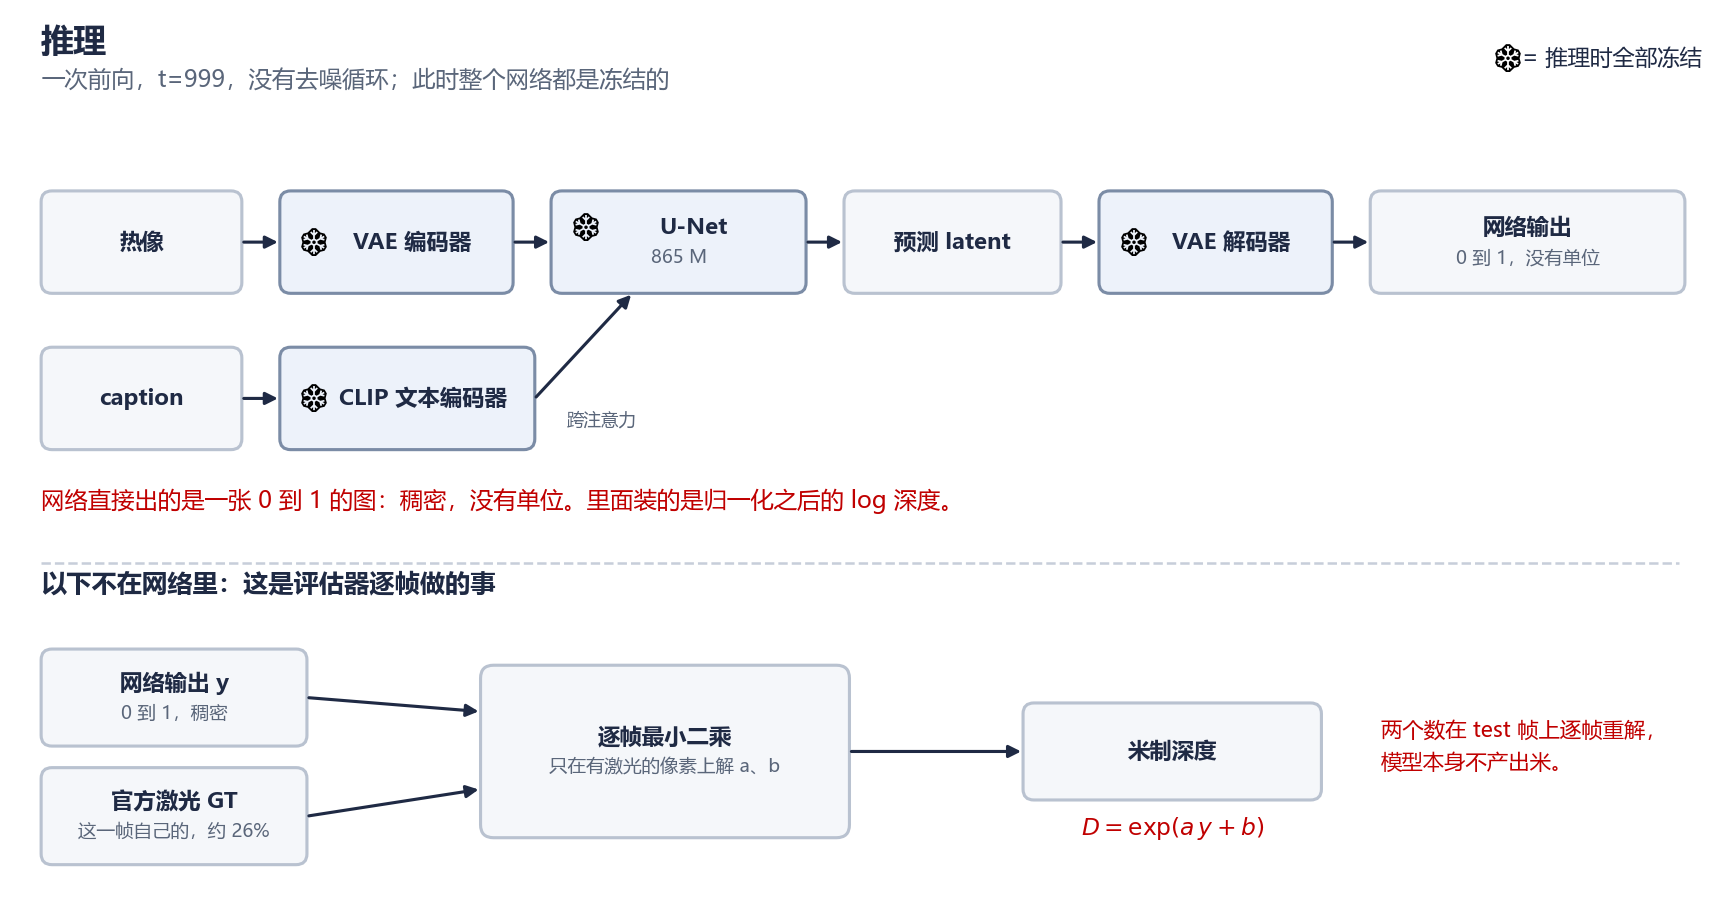
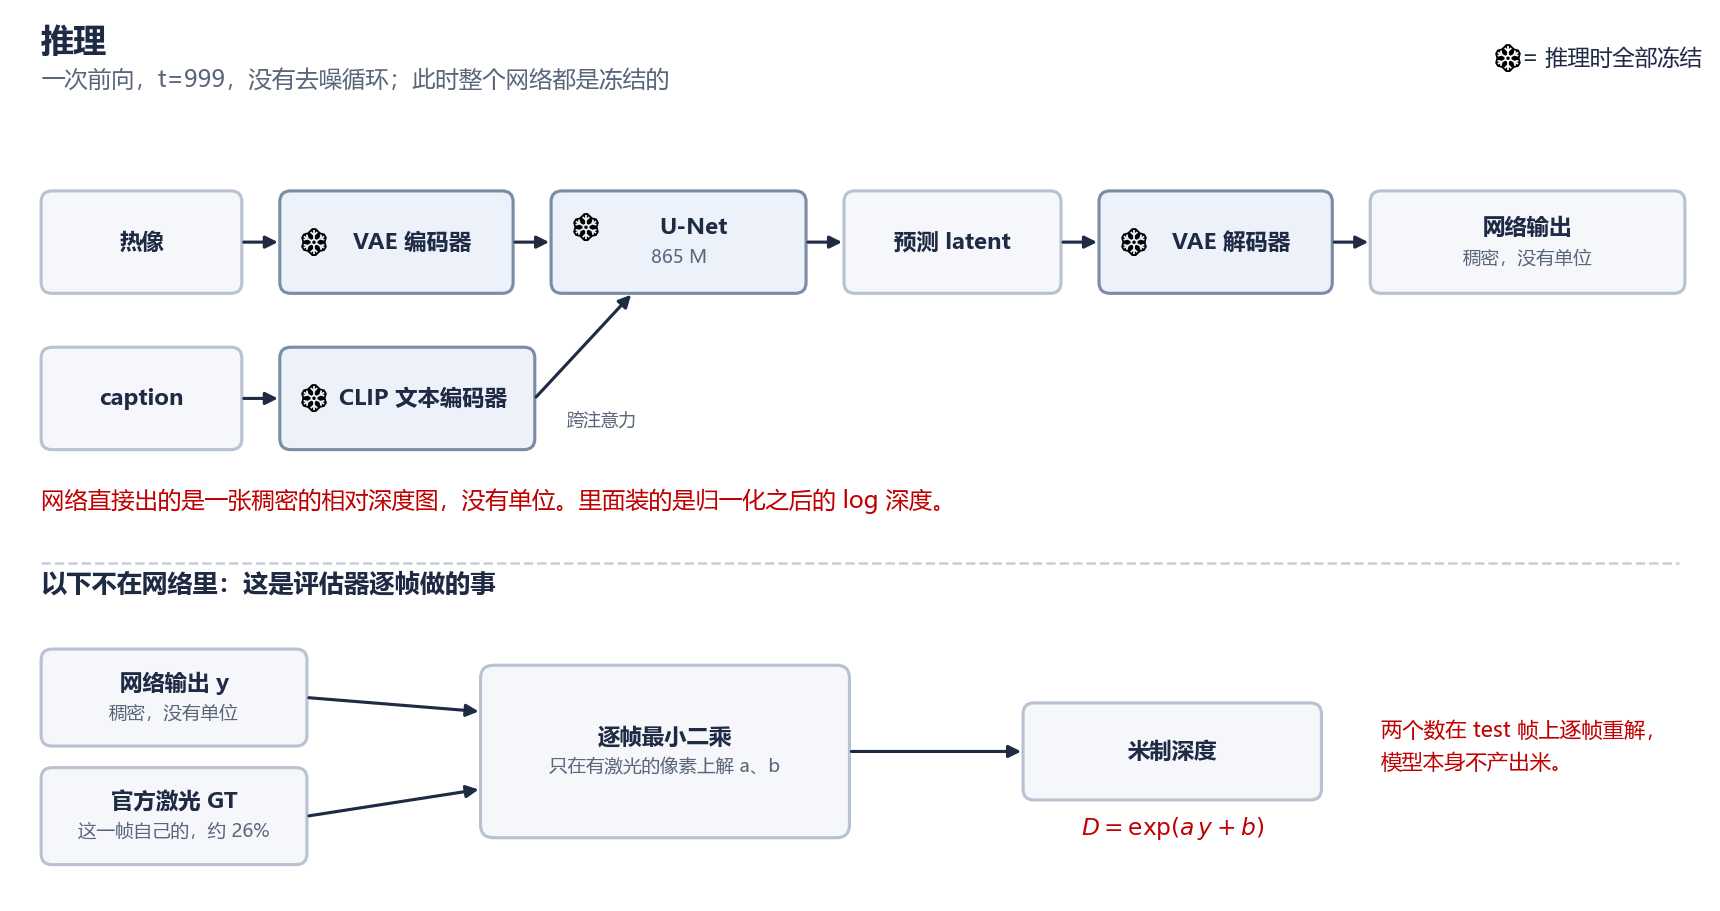
Take the range off the inference figure, as asked
Three places said "0 到 1". Asked to drop them, the previous pass only
dropped the word 标称 in front of one of them and left the interval itself
in all three.

Changed region(s): [[0.1541, 0.5225, 0.5547, 0.584], [0.832, 0.2766, 0.9244, 0.3074], [0.0616, 0.7684, 0.1541, 0.7991]]

diff --git a/docs/figures/build_architecture.py b/docs/figures/build_architecture.py
@@ -257,7 +257,7 @@ def inference():
     block(ax, 4.95, row, 2.35, h, "U-Net", "865 M", state="frozen")
     block(ax, 7.65, row, 2.00, h, "预测 latent", state="data")
     block(ax, 10.00, row, 2.15, h, "VAE 解码器", state="frozen")
-    block(ax, 12.50, row, 2.90, h, "网络输出", "0 到 1，没有单位", state="data")
+    block(ax, 12.50, row, 2.90, h, "网络输出", "稠密，没有单位", state="data")
     for x0, x1 in ((2.10, 2.45), (4.60, 4.95), (7.30, 7.65),
                    (9.65, 10.00), (12.15, 12.50)):
         arrow(ax, x0, mid, x1, mid)
@@ -270,7 +270,7 @@ def inference():
     ax.text(5.42, 4.38, "跨注意力", ha="center", fontsize=9, color=MUTED)
 
     ax.text(0.25, 3.62,
-            "网络直接出的是一张 0 到 1 的图：稠密，没有单位。"
+            "网络直接出的是一张稠密的相对深度图，没有单位。"
             "里面装的是归一化之后的 log 深度。",
             fontsize=12, color=RED)
 
@@ -279,7 +279,7 @@ def inference():
             fontsize=13, weight="bold", color=INK)
 
     # Band B: the two-parameter fit that puts the metres on.
-    block(ax, 0.25, 1.40, 2.45, 0.90, "网络输出 y", "0 到 1，稠密", state="data")
+    block(ax, 0.25, 1.40, 2.45, 0.90, "网络输出 y", "稠密，没有单位", state="data")
     block(ax, 0.25, 0.30, 2.45, 0.90, "官方激光 GT", "这一帧自己的，约 26%", state="data")
     block(ax, 4.30, 0.55, 3.40, 1.60, "逐帧最小二乘",
           "只在有激光的像素上解 a、b", state="data", radius=0.12)
